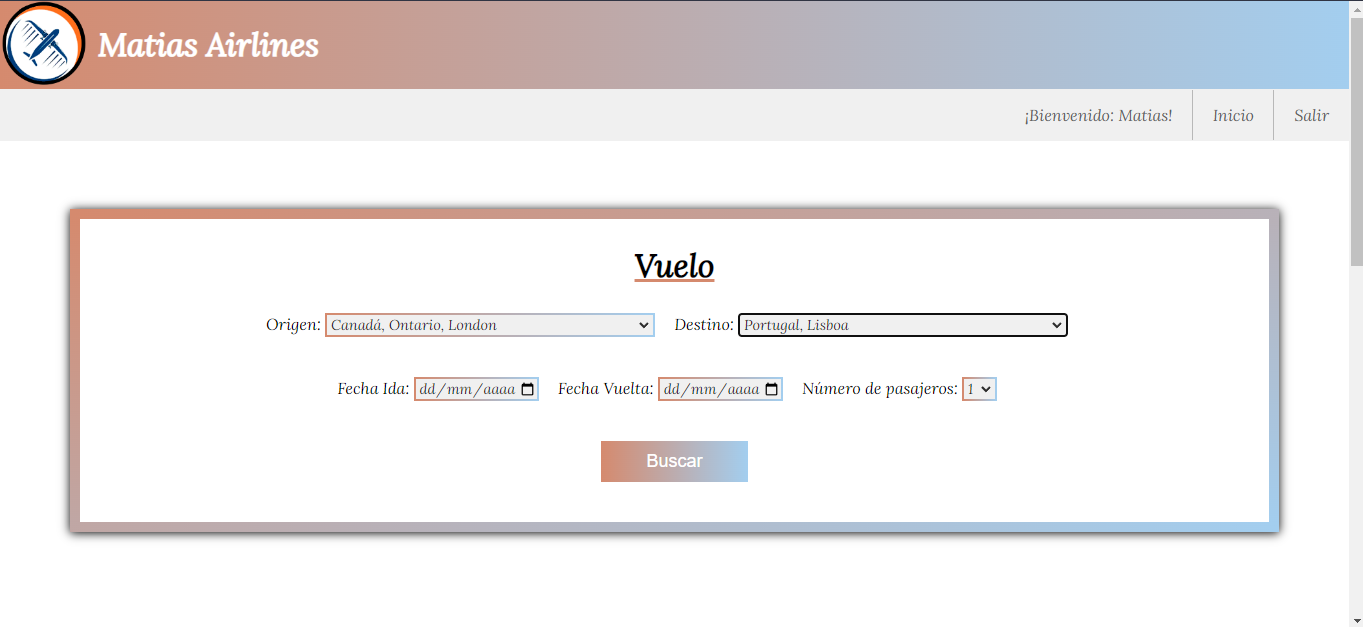
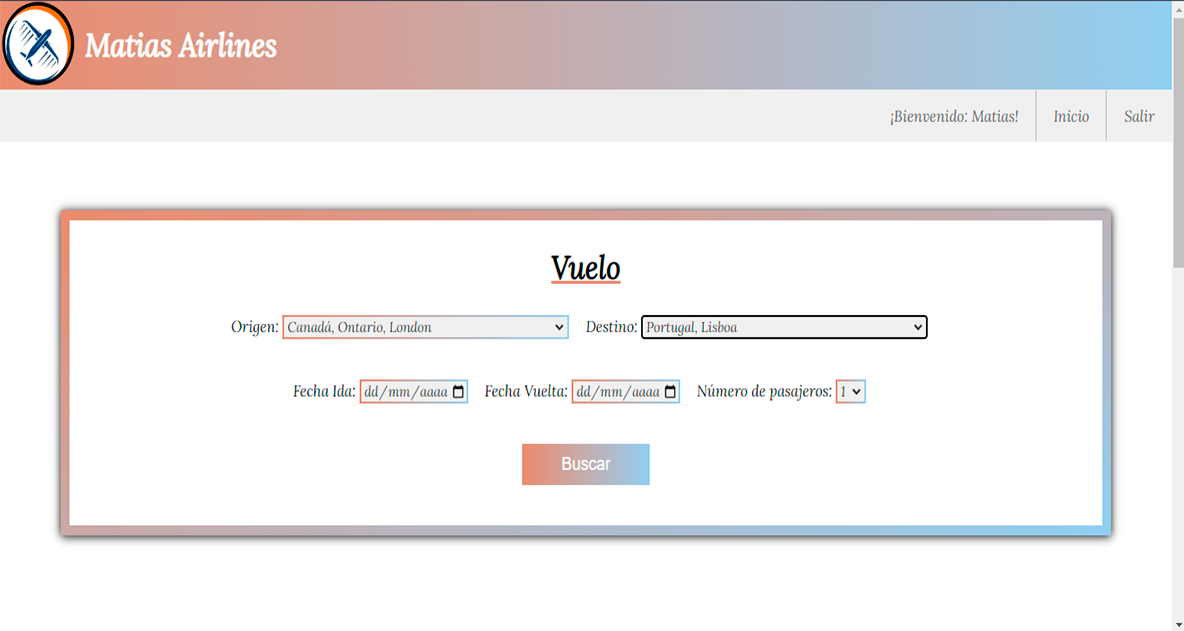
Mejora del CSS (Imagenes)

diff --git a/Estilo.css b/Estilo.css
@@ -22,7 +22,8 @@ header {
     border-top: 2px solid #FAFBFD;
 }
 
-#titulos, #imagen {
+#titulos,
+#imagen {
     display: inline-block;
 }
 
@@ -38,16 +39,16 @@ section {
     max-width: 100%;
 }
 
-nav{
+nav {
+    display: flex;
     max-width: 100%;
-    width: 100%;
 }
 
 nav ul {
     margin: 0;
     border: 2px solid #FAFBFD;
-    padding: 0vh 0vh 0vh 62.7vw;
-    max-width: 100%;
+    padding: 0vh 0vh 0vh 63.56%;
+    min-width: 36.3%;
     background-image: linear-gradient(160deg, #FAFBFD, #FF5047);
     list-style-type: none;
     float: right;
@@ -73,33 +74,34 @@ nav ul {
     transition: 1s ease-in-out;
 }
 
-#proyectos:target{
+#proyectos:target {
     animation: anim 2s;
 }
 
-#Habilidades:target{
+#Habilidades:target {
     animation: anim 2s;
 }
 
-#AcercaDeMi:target{
+#AcercaDeMi:target {
     animation: anim 2s;
 }
 
-#Contactame:target{
+#Contactame:target {
     animation: anim 2s;
 }
 
 @keyframes anim {
-    0%{
+    0% {
         opacity: 0.1;
         transform: translateY(5%);
     }
-    20%{
+
+    20% {
         opacity: 1;
     }
 }
 
-#TituloProyectos{
+#TituloProyectos {
     margin-top: 12vh;
 }
 
@@ -119,7 +121,7 @@ nav ul {
     border-radius: 30px;
 }
 
-.proyectos{
+.proyectos {
     margin-top: 4vh;
     margin-left: 4vh;
     margin-bottom: 20vh;
@@ -131,45 +133,44 @@ nav ul {
     display: inline-block;
 }
 
-hr{
+hr {
     border: 0;
     border-top: 2px solid #FEB5B1;
     border-radius: 3px;
 }
 
-.proyectos h2{
+.proyectos h2 {
     color: #FF5047;
     text-align: center;
 }
 
-.proyectos:hover{
+.proyectos:hover {
     transition: ease-out 0.2s;
     cursor: pointer;
     box-shadow: 0px 3px 9px #FF5047;
 }
 
-#ImgPresentacionAirlines{
+#ImgPresentacionAirlines {
     width: 100%;
     border-radius: 15px;
 }
 
-#ImgPresentacionMercarro{
+#ImgPresentacionMercarro {
     width: 100%;
     border-radius: 15px;
 }
 
-#ImgPresentacionNorex{
+#ImgPresentacionNorex {
     width: 100%;
-    height: 30vh;
     border-radius: 15px;
 }
 
-#proyectoCompleto1{
+#proyectoCompleto1 {
     margin-bottom: 3vh;
     margin-left: 6vh;
     text-align: center;
     display: none;
-    width: 50%;
+    width: 10%;
     border-radius: 20px;
     background-color: #FAFBFD;
     border: 2px solid #FEB5B1;
@@ -178,12 +179,12 @@ hr{
     visibility: hidden;
 }
 
-#proyectoCompleto2{
+#proyectoCompleto2 {
     margin-bottom: 3vh;
     margin-left: 6vh;
     text-align: center;
     display: none;
-    width: 50%;
+    width: 10%;
     border-radius: 20px;
     background-color: #FAFBFD;
     border: 2px solid #FEB5B1;
@@ -192,12 +193,12 @@ hr{
     visibility: hidden;
 }
 
-#proyectoCompleto3{
+#proyectoCompleto3 {
     margin-bottom: 3vh;
     margin-left: 6vh;
     text-align: center;
     display: none;
-    width: 50%;
+    width: 10%;
     border-radius: 20px;
     background-color: #FAFBFD;
     border: 2px solid #FEB5B1;
@@ -206,7 +207,7 @@ hr{
     visibility: hidden;
 }
 
-.flechaIzq{
+.flechaIzq {
     display: inline-block;
     width: 5vh;
     transform: rotate(180deg);
@@ -216,7 +217,7 @@ hr{
     border-radius: 3vh;
 }
 
-.flechaDer{
+.flechaDer {
     display: inline-block;
     width: 5vh;
     margin-bottom: 14.5vh;
@@ -225,51 +226,54 @@ hr{
     border-radius: 3vh;
 }
 
-.flechaIzq:hover{
+.flechaIzq:hover {
     cursor: pointer;
     background-color: #CCC;
 }
 
-.flechaDer:hover{
+.flechaDer:hover {
     cursor: pointer;
     background-color: #CCC;
 }
 
-#proyectoCompleto1 video, #IMGAirlines{
+#proyectoCompleto1 video,
+#IMGAirlines {
     max-width: 100%;
     width: 88vh;
     border-radius: 15px;
 }
 
-#proyectoCompleto2 video, #IMGMercarro{
+#proyectoCompleto2 video,
+#IMGMercarro {
     max-width: 100%;
     width: 88vh;
     border-radius: 15px;
 }
 
-#proyectoCompleto3 video, #IMGNorex{
+#proyectoCompleto3 video,
+#IMGNorex {
     max-width: 100%;
     width: 88vh;
     border-radius: 15px;
 }
 
-#Habilidades{
+#Habilidades {
     background-color: #FF5047;
     text-align: center;
     padding: 6vh 0vh;
 }
 
-.Iconos{
+.Iconos {
     display: inline-block;
     color: #FAFBFD;
 }
 
-.Iconos a{
+.Iconos a {
     color: #FAFBFD;
     text-decoration: none;
 }
 
-.imagenesSkills{
+.imagenesSkills {
     display: inline-block;
     margin-top: 3vh;
     margin-left: 3vh;
@@ -280,7 +284,7 @@ hr{
     transition: 0.3s ease-in;
 }
 
-.imagenesContactame{
+.imagenesContactame {
     display: inline-block;
     margin-top: 3vh;
     margin-left: 3vh;
@@ -290,37 +294,38 @@ hr{
     transition: 0.3s ease-in;
 }
 
-#whats{
+#whats {
     background-color: #77DD77;
 }
 
-#gmail{
+#gmail {
     background-color: #FAFBFD;
 }
 
-#disc{
+#disc {
     background-color: #2B3D58;
 }
 
-.imagenesSkills:hover{
+.imagenesSkills:hover {
     transition: 0.3s ease-out;
     border-radius: 5vh;
     box-shadow: 3px 3px 5px #666;
 }
 
-.imagenesContactame:hover{
+.imagenesContactame:hover {
     cursor: pointer;
     transition: 0.3s ease-out;
     border-radius: 5vh;
     box-shadow: 3px 3px 5px #666;
 }
 
-#AcercaDeMi{
+#AcercaDeMi {
     margin-top: 10vh;
 }
 
-#informacionAcerca{
+#informacionAcerca {
     margin-top: 3vh;
+    display: flex;
 }
 
 #informacionAcerca p {
@@ -338,30 +343,27 @@ hr{
 }
 
 #informacionAcerca img {
-    margin-right: 25vh;
+    margin-left: 15vh;
     float: right;
     width: 43vh;
     border: 3px solid #CCC;
     border-radius: 5vh;
 }
 
-#Contactame{
+#Contactame {
+    min-height: auto;
     background-color: #FF5047;
     text-align: center;
     margin-top: 18vh;
 }
 
-#Contactame img{
-    margin-top: 8vh;
-}
-
-footer{
+footer {
     margin: 0;
     padding: 0.1vh 0vh;
     background-color: #FEB5B1;
 }
 
-footer p{
+footer p {
     text-decoration: underline;
     color: #FFF;
     font-size: 3vh;
